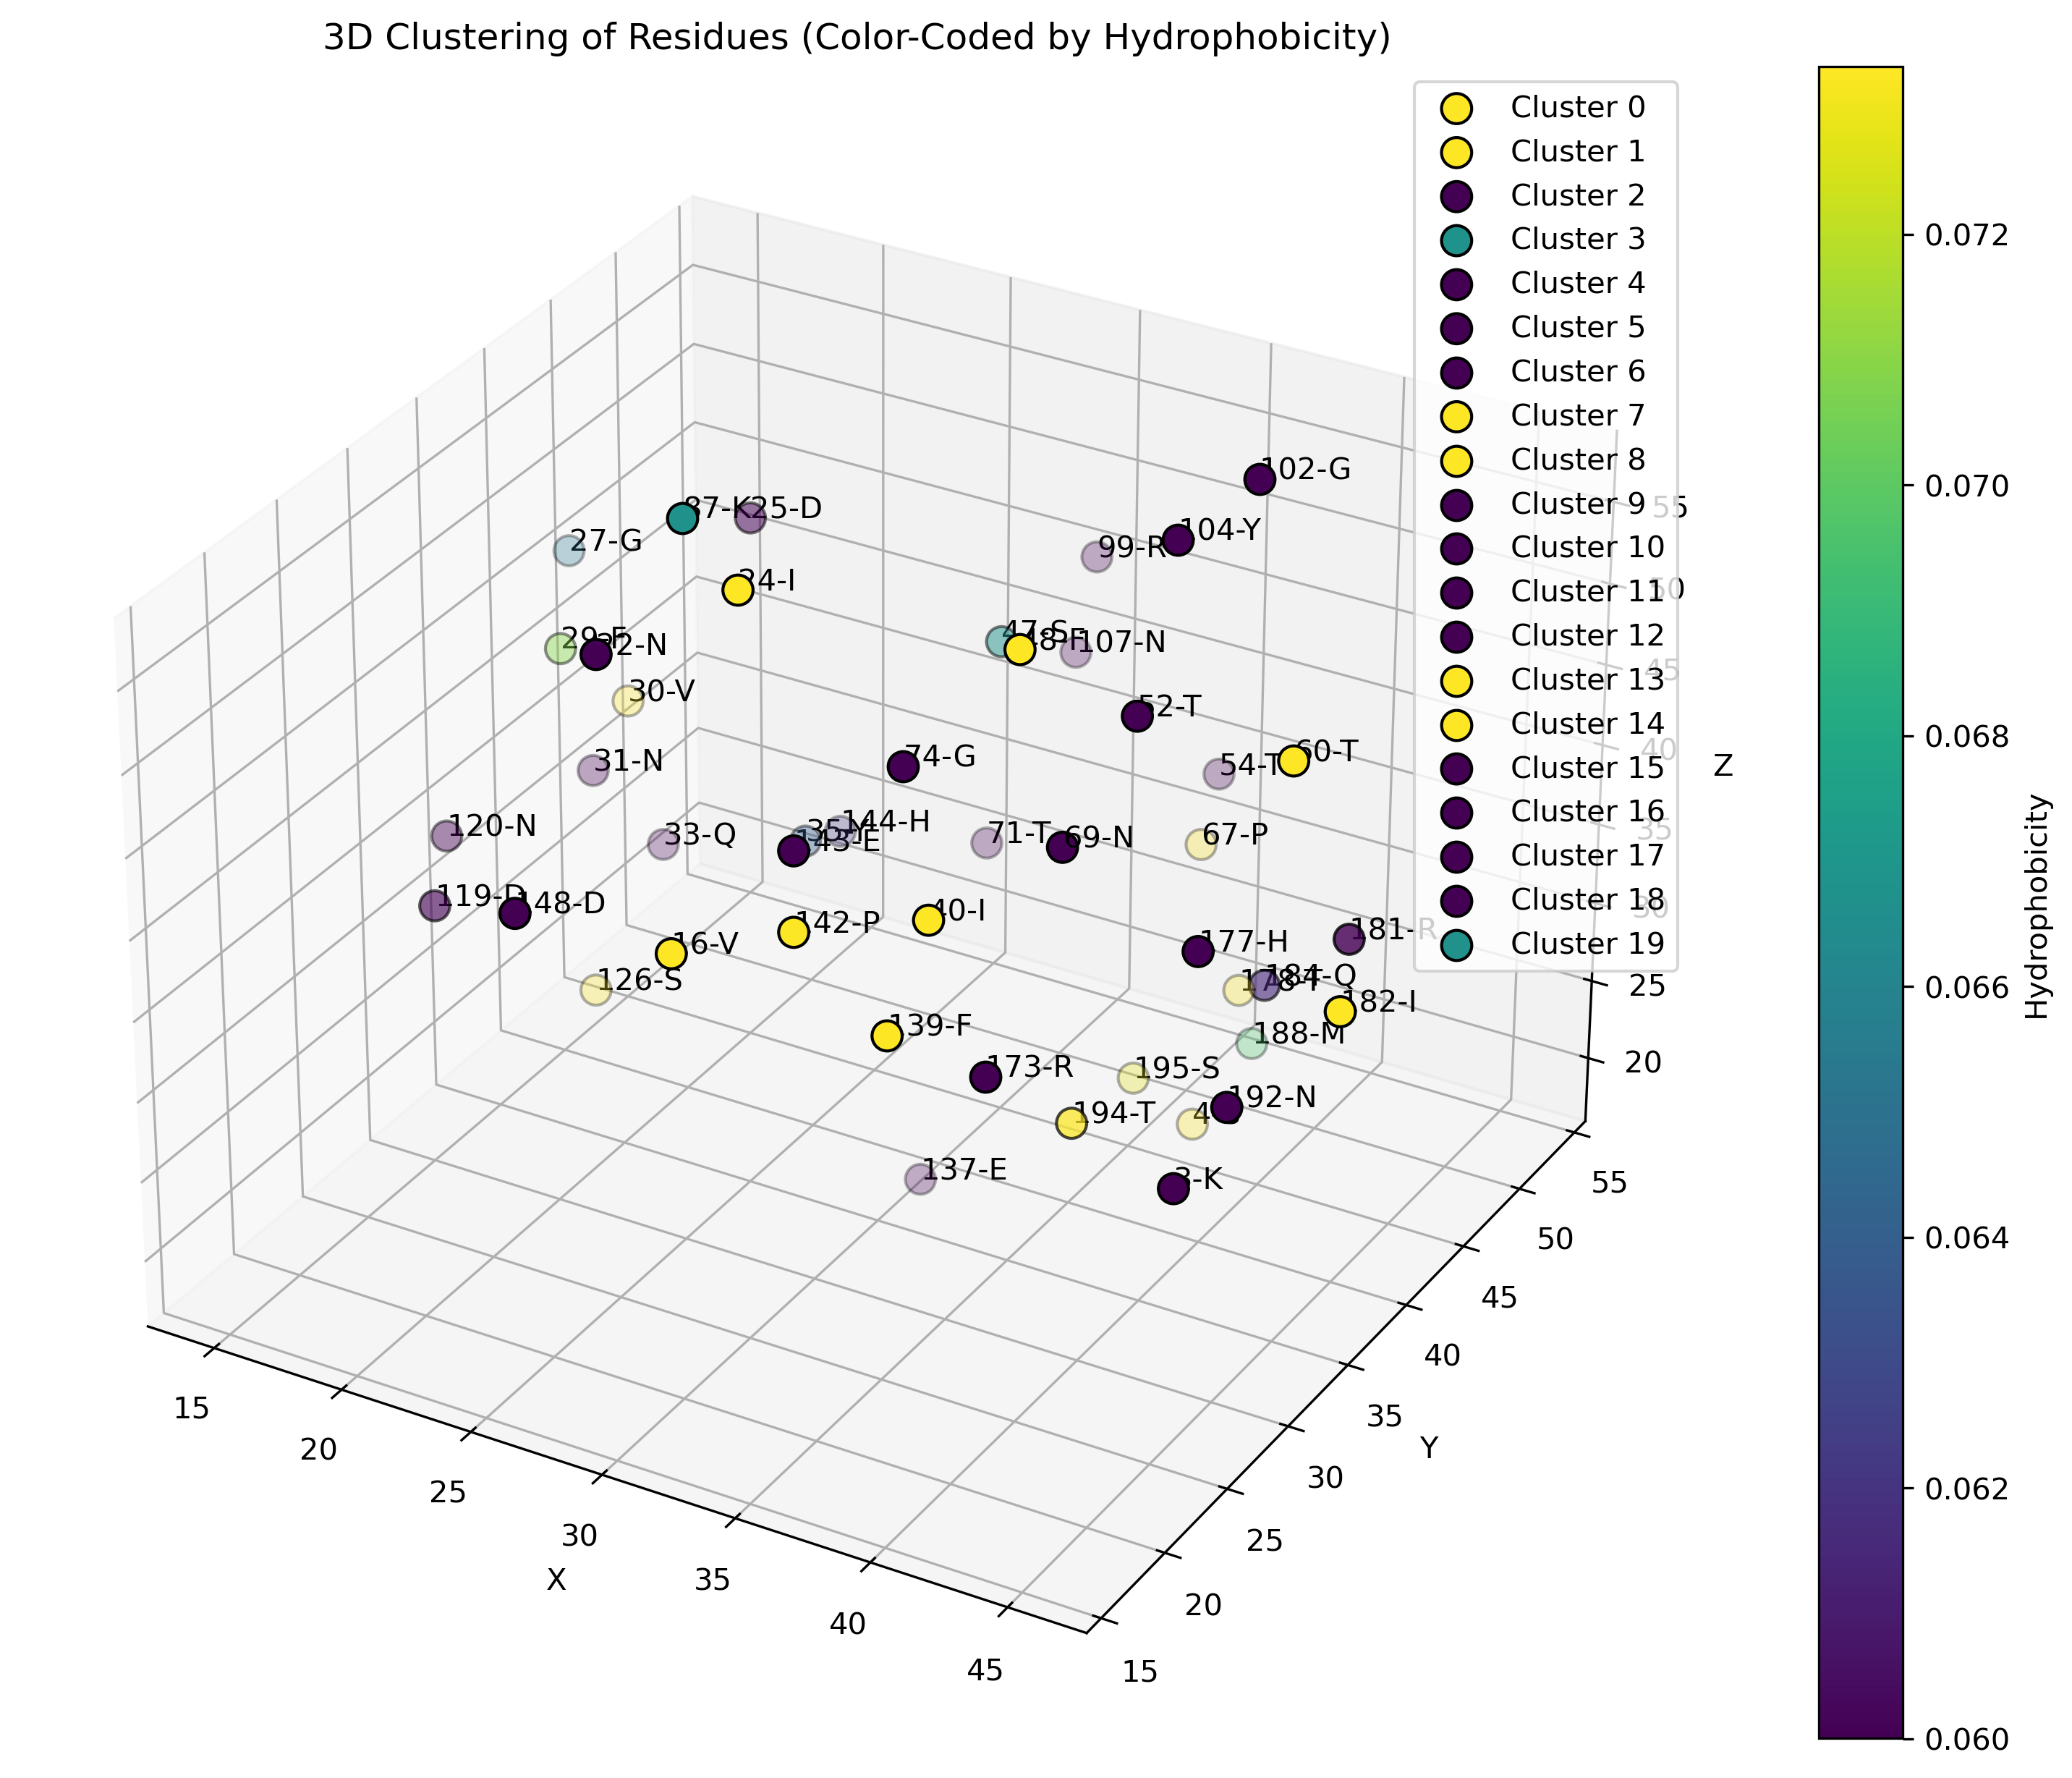
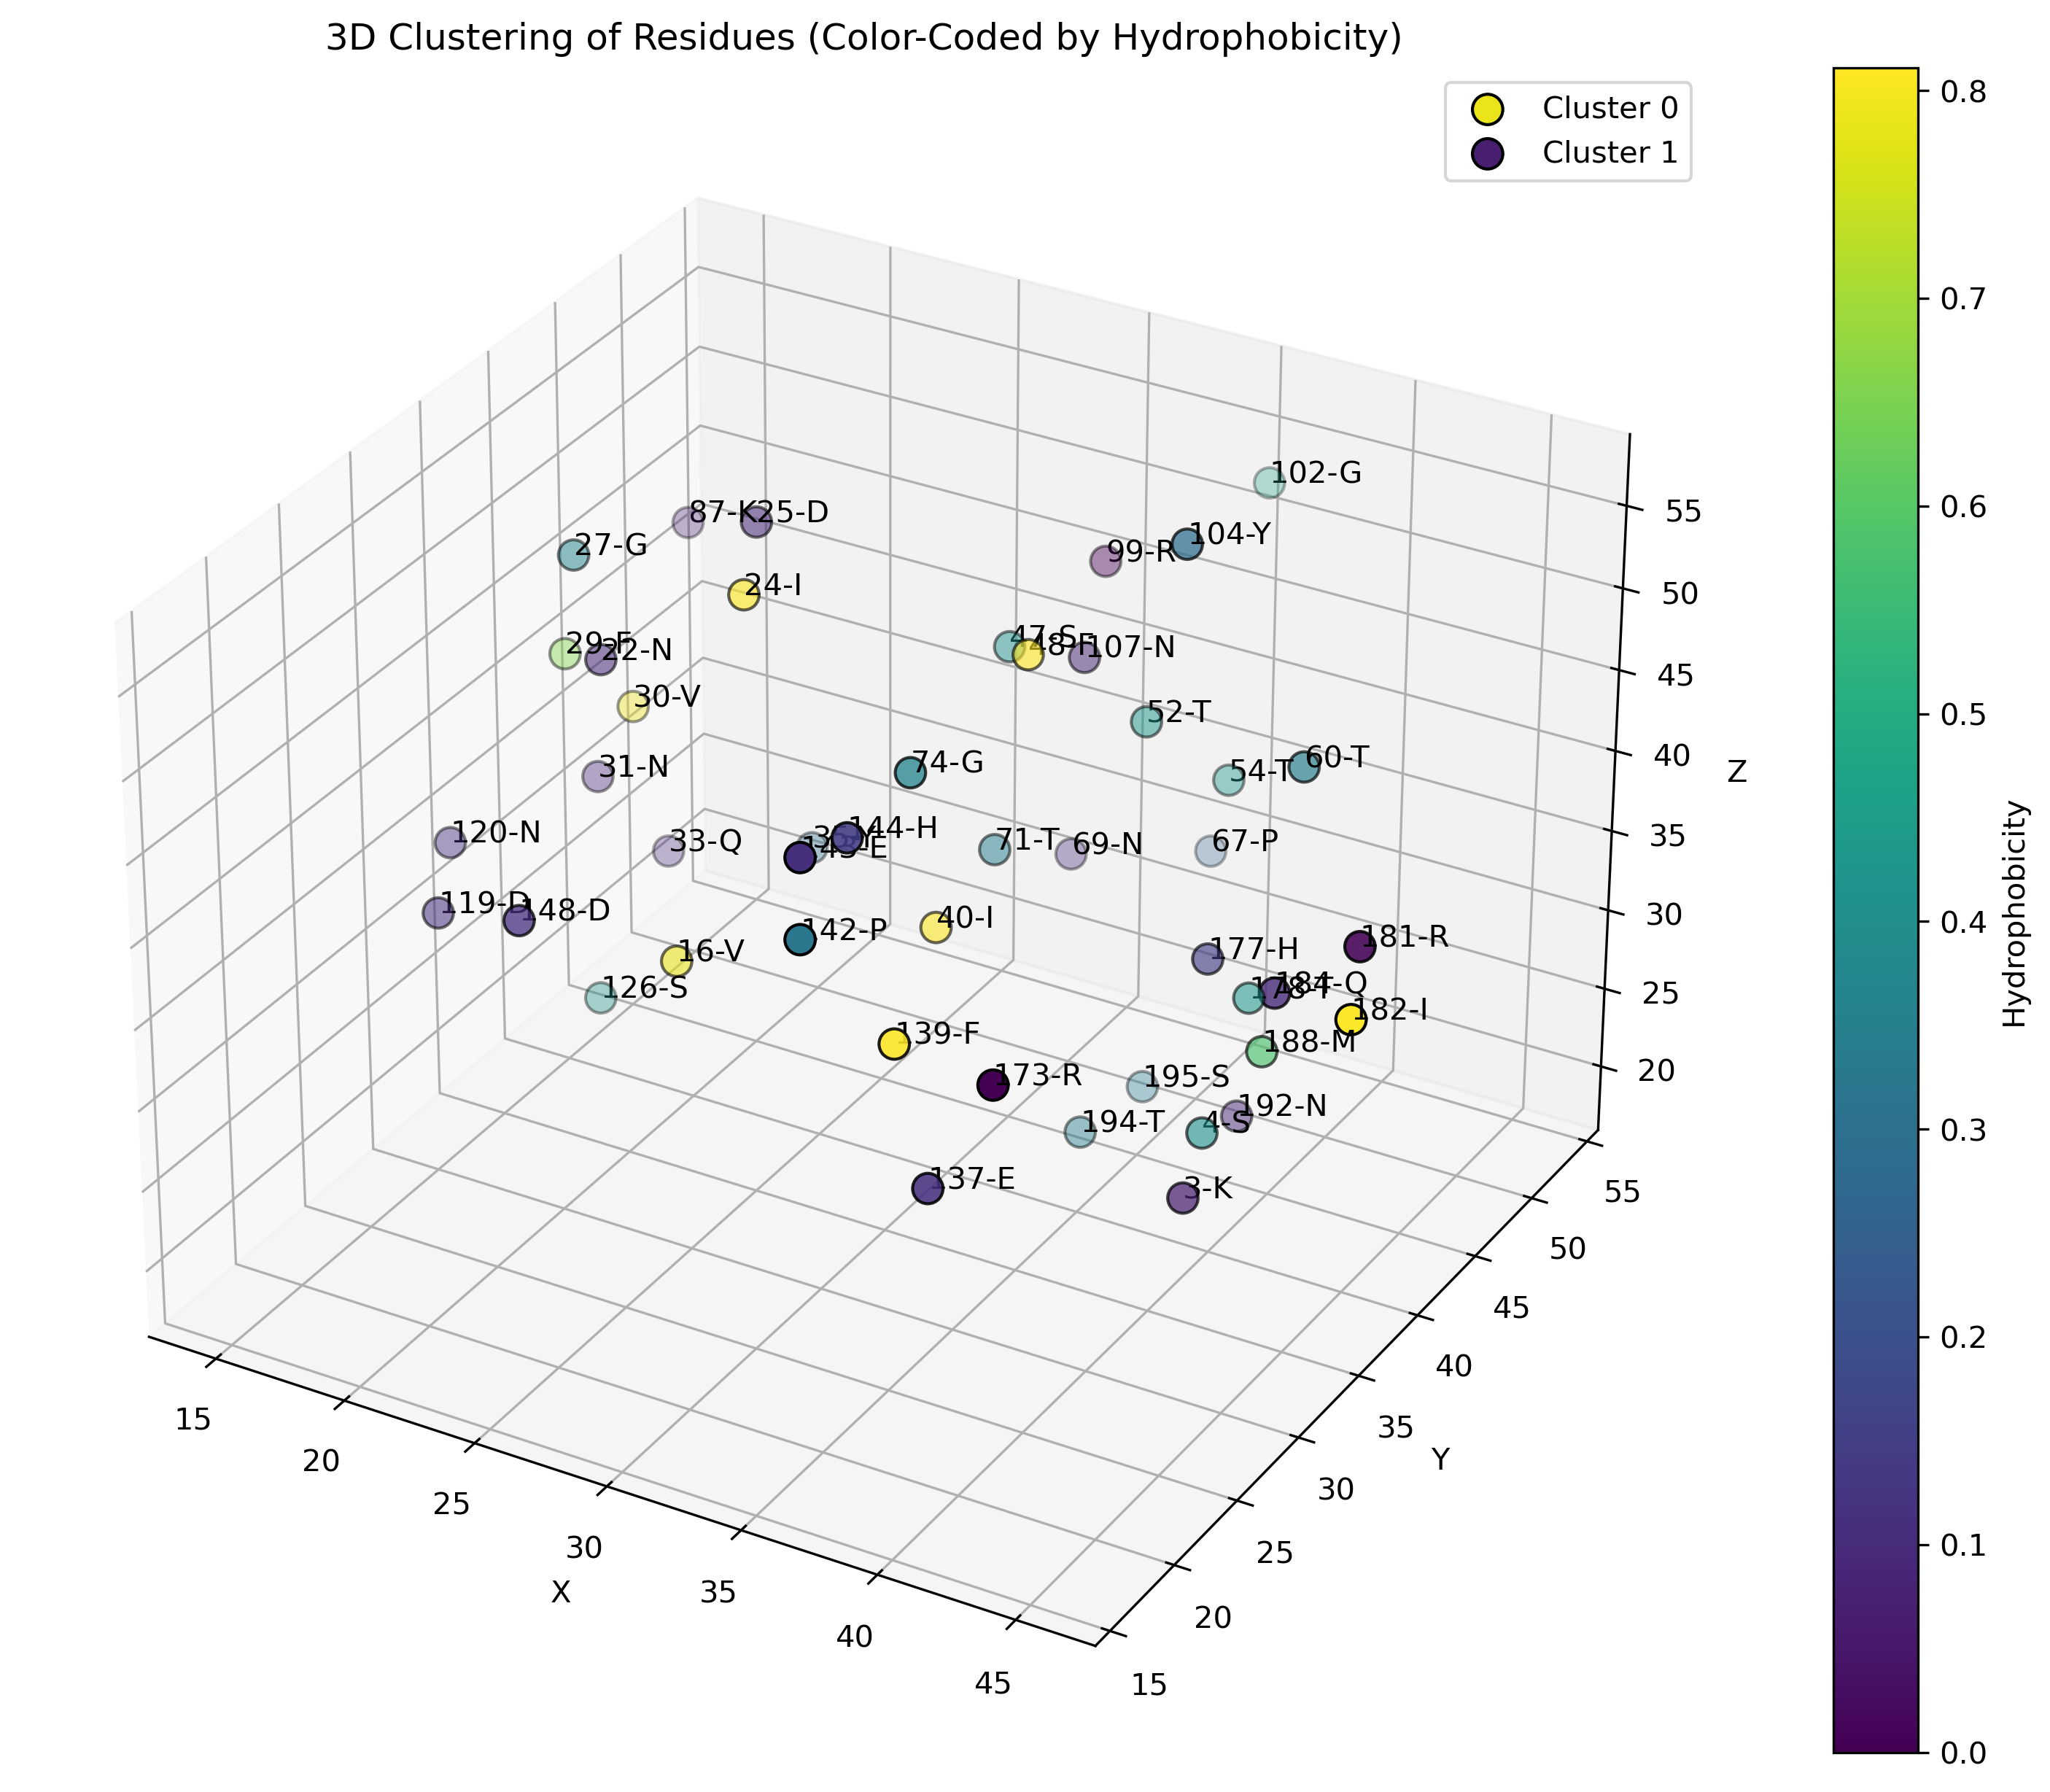
all

diff --git a/manuscript/Variants.tex b/manuscript/Variants.tex
@@ -3,6 +3,7 @@
 \usepackage{booktabs} % For better table formatting
 \usepackage{array}    % For more flexible table features
 \usepackage{placeins} % To control figure placement
+\usepackage{float}    % To use the H placement specifier
 
 \title{Analysis of Single Mutants}
 \author{Your Name} % Replace with your name
@@ -21,19 +22,21 @@ The mutations were applied by transferring each residue from the mouse sequence 
 
 By analyzing the 47 single mutants, we aim to systematically explore the structural transitions and activation energy changes associated with the human-to-mouse and mouse-to-human sequence transformations. This stepwise approach ensures that the contributions of individual residues to protein evolution and function are thoroughly characterized.
 
-\begin{figure}[h!]
+\begin{figure}[H]
     \centering
     \includegraphics[width=0.8\linewidth]{/home/hp/nayanika/github/GPX6/figures/Residue_human_Distances.png} % Replace with your image file name
     \caption{Distance of residues from the active site for human mutants. The figure highlights proximity of each residue to Cys/Sec49.}
     \label{fig:human_distances}
 \end{figure}
 
-\begin{figure}[h!]
+\begin{figure}[H]
     \centering
     \includegraphics[width=0.8\linewidth]{/home/hp/nayanika/github/GPX6/figures/Residue_mouse_Distances.png} % Replace with your image file name
     \caption{Distance of residues from the active site for mouse mutants. The figure highlights proximity of each residue to Cys/Sec49.}
     \label{fig:mouse_distances}
 \end{figure}
+
+\FloatBarrier % Forces all previous figures to appear before this section
 
 \subsection{Clustering the Variants}
 
@@ -41,21 +44,127 @@ The image below shows a 3D scatter plot of residues clustered based on their spa
 
 Residues are color-coded based on their **hydrophobicity** (a physicochemical property) to highlight how the hydrophobicity influences the clustering. The clustering provides insight into spatial relationships and physicochemical properties that might play a role in protein function.
 
-\begin{figure}[h!]
+Cluster 0: (P, E, H at positions 142-144)
+    • Residues: Proline (P), Glutamic acid (E), Histidine (H)
+    • Interpretation: These residues form a structural region, and their proximity to Cys/Sec49 is relatively far (16.44, 15.29, and 11.60 Å). 
+Cluster 1: (V, Q, Y at positions 16, 33, 35)
+    • Residues: Valine (V), Glutamine (Q), Tyrosine (Y)
+    • Interpretation: These residues are located at a distance of 27.12, 30.54, and 28.03 Å from Cys/Sec49, respectively.
+Cluster 2: (R, I, Q, M at positions 181-188)
+    • Residues: Arginine (R), Isoleucine (I), Glutamine (Q), Methionine (M)
+    • Interpretation: These residues are located further away from the active site, with distances ranging from 19.54 Å to 27.64 Å. 
+Cluster 3: (S, F, R at positions 47, 48, 99)
+    • Residues: Serine (S), Phenylalanine (F), Arginine (R)
+    • Interpretation: These residues are closer to the active site, with distances ranging from 5.59 to 9.50 Å. This suggests they have a more direct influence on the active site. 
+Cluster 4: (N, T, S at positions 192-195)
+    • Residues: Asparagine (N), Threonine (T), Serine (S)
+    • Interpretation: These residues are at relatively greater distances from Cys/Sec49, with distances ranging from 33.41 to 35.43 Å. 
+Cluster 5: (D, N, S, D at positions 119, 120, 126, 148)
+    • Residues: Aspartic acid (D), Asparagine (N), Serine (S)
+    • Interpretation: These residues are located between 16.44 and 23.30 Å from Cys/Sec49. 
+Cluster 6: (H, T at positions 177-178)
+    • Residues: Histidine (H), Threonine (T)
+    • Interpretation: The distances between these residues and Cys/Sec49 are 20.19 and 14.81 Å.
+Cluster 7: (I, D, G at positions 24-27)
+    • Residues: Isoleucine (I), Aspartic acid (D), Glycine (G)
+    • Interpretation: These residues are further away from the active site, with distances ranging from 18.69 to 26.67 Å.
+Cluster 8: (I, T at positions 40, 71)
+    • Residues: Isoleucine (I), Threonine (T)
+    • Interpretation: With distances of 23.17 and 23.11 Å from Cys/Sec49.
+Cluster 9: (K, S at positions 3, 4)
+    • Residues: Lysine (K), Serine (S)
+    • Interpretation: These residues are 21.63 and 19.64 Å from Cys/Sec49. 
+Cluster 10: (T, T at positions 52, 54)
+    • Residues: Threonine (T)
+    • Interpretation: The two Threonine residues at distances of 5.20 and 10.00 Å from Cys/Sec49 are relatively close. 
+Cluster 11: (E, F at positions 137, 139)
+    • Residues: Glutamic acid (E), Phenylalanine (F)
+    • Interpretation: These residues are situated at distances of 21.60 and 16.28 Å, which are moderate. 
+Cluster 12: (G at position 102)
+    • Residue: Glycine (G)
+    • Interpretation: Glycine is located at a distance of 16.77 Å
+Cluster 13: (P, N at positions 67, 69)
+    • Residues: Proline (P), Asparagine (N)
+    • Interpretation: With distances of 30.74 and 27.97 Å
+Cluster 14: (T, N at positions 60, 107)
+    • Residues: Threonine (T), Asparagine (N)
+    • Interpretation: With distances ranging from 19.05 to 19.80 Å
+Cluster 15: (N, F, V, N at positions 22-31)
+    • Residues: Asparagine (N), Phenylalanine (F), Valine (V)
+    • Interpretation: These residues are 22.91, 26.66, and 28.12 Å from Cys/Sec49
+Cluster 16: (G at position 74)
+    • Residue: Glycine (G)
+    • Interpretation: Glycine at 14.29 Å 
+Cluster 17: (R at position 173)
+    • Residue: Arginine (R)
+    • Interpretation: Arginine at 20.19 Å 
+Cluster 18: (Y at position 104)
+    • Residue: Tyrosine (Y)
+    • Interpretation: Tyrosine at 16.10 Å 
+Cluster 19: (K at position 87)
+    • Residue: Lysine (K)
+    • Interpretation: Lysine at 16.44 Å 
+
+    Cluster 0: (P, E, H at positions 142-144)
+    • Residues: Proline (P), Glutamic acid (E), Histidine (H)
+    • Interpretation: These residues may form a specific structural region with a mix of hydrophobic (Proline) and polar (Glutamic acid, Histidine) properties. 
+    • Residues: Valine (V), Glutamine (Q), Tyrosine (Y)
+    • Interpretation: This cluster contains a hydrophobic residue (Valine) and polar residues (Glutamine, Tyrosine). 
+Cluster 2: (R, I, Q, M at positions 181-188)
+    • Residues: Arginine (R), Isoleucine (I), Glutamine (Q), Methionine (M)
+    • Interpretation: This cluster is rich in charged (Arginine) and hydrophobic (Isoleucine, Methionine) residues
+Cluster 3: (S, F, R at positions 47, 48, 99)
+    • Residues: Serine (S), Phenylalanine (F), Arginine (R)
+    • Interpretation: This cluster involves a polar residue (Serine), an aromatic residue (Phenylalanine), and a basic residue (Arginine).
+Cluster 4: (N, T, S at positions 192-195)
+    • Residues: Asparagine (N), Threonine (T), Serine (S)
+    • Interpretation: The cluster contains polar residues
+Cluster 5: (D, N, S, D at positions 119, 120, 126, 148)
+    • Residues: Aspartic acid (D), Asparagine (N), Serine (S)
+    • Interpretation: This cluster involves acidic (Aspartic acid) and polar (Serine, Asparagine) residues
+Cluster 6: (H, T at positions 177-178)
+    • Residues: Histidine (H), Threonine (T)
+    • Interpretation: This small cluster of polar residues 
+Cluster 7: (I, D, G at positions 24-27)
+    • Residues: Isoleucine (I), Aspartic acid (D), Glycine (G)
+    • Interpretation: A mix of hydrophobic (Isoleucine) and polar (Aspartic acid) residues, with Glycine 
+Cluster 8: (I, T at positions 40, 71)
+    • Residues: Isoleucine (I), Threonine (T)
+    • Interpretation: The hydrophobic Isoleucine and polar Threonine residues
+Cluster 9: (K, S at positions 3, 4)
+    • Residues: Lysine (K), Serine (S)
+    • Interpretation: The charged Lysine and polar Serine residues
+Cluster 10: (T, T at positions 52, 54)
+    • Residues: Threonine (T)
+    • Interpretation: This cluster consists of two Threonine residues
+Cluster 11: (E, F at positions 137, 139)
+    • Residues: Glutamic acid (E), Phenylalanine (F)
+    • Interpretation: This cluster involves a charged (Glutamic acid) and aromatic (Phenylalanine) residue
+Cluster 14: (T, N at positions 60, 107)
+    • Residues: Threonine (T), Asparagine (N)
+    • Interpretation: A cluster of polar residues l
+Cluster 15: (N, F, V, N at positions 22-31)
+    • Residues: Asparagine (N), Phenylalanine (F), Valine (V)
+    • Interpretation: The combination of polar (Asparagine) and hydrophobic (Phenylalanine, Valine) residues 
+
+
+\begin{figure}[H]
     \centering
     \includegraphics[width=0.8\linewidth]{/home/hp/nayanika/github/GPX6/figures/3d_clustering_residues.png} % Replace with your image file name
     \caption{3D clustering of residues based on spatial proximity, hydrophobicity, and free energy values. Each cluster represents residues grouped by their spatial location and physicochemical properties.}
     \label{fig:3d_clustering}
 \end{figure}
 
+\FloatBarrier % Forces all previous figures to appear before this section
+
 \subsection{Visualizing the Clusters}
 
 The following figure illustrates the clustering of mutants based on the distances from the active site and other relevant features. This visualization provides a clear representation of how mutations at different positions affect the protein’s structure and potential function.
 
-\begin{figure}[h!]
+\begin{figure}[H]
     \centering
     \includegraphics[width=0.8\linewidth]{/home/hp/nayanika/github/GPX6/figures/clustered_mutants.png} % Replace with your image file name
-    \caption{Visualization of clustered mutants showing the proximity of residues to Cys/Sec49. The clusters reveal how residue variations may affect protein stability and function.}
+    \caption{Visualization of clustered mutants showing the proximity of residues to Cys/Sec49.}
     \label{fig:clustered_mutants}
 \end{figure}
 